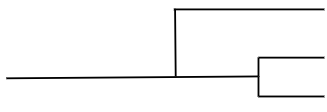
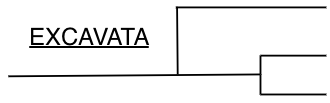
titles added to clados

Changed region(s): [[0.0, 0.0583, 1.0, 0.932], [0.0612, 0.2621, 0.4587, 0.466]]

diff --git a/app/assets/stylesheets/unikonta.scss b/app/assets/stylesheets/unikonta.scss
@@ -6,48 +6,48 @@
 
 .amoebozoans {
   position: relative;
-  top: -350px;
-  left: 500px;
+  top: -382px;
+  left: 505px;
 }
 
 .choanoflagellates {
   position: relative;
-  top: -270px;
-  left: 500px;
+  top: -350px;
+  left: 505px;
 }
 
 .animals {
   position: relative;
-  top: -245px;
-  left: 500px;
+  top: -325px;
+  left: 505px;
 }
 
 .chytrids {
   position: relative;
-  top: -220px;
-  left: 500px;
+  top: -300px;
+  left: 505px;
 }
 
 .zygomycetes {
   position: relative;
-  top: -190px;
-  left: 500px;
+  top: -120px;
+  left: 505px;
 }
 
 .glomeromycetes {
   position: relative;
-  top: -165px;
-  left: 500px;
+  top: -100px;
+  left: 505px;
 }
 
 .basidiomycetes {
   position: relative;
-  top: -150px;
-  left: 500px;
+  top: -85px;
+  left: 505px;
 }
 
 .ascomycetes {
   position: relative;
-  top: -140px;
-  left: 500px;
+  top: -75px;
+  left: 505px;
 }

diff --git a/app/assets/stylesheets/bacteria.scss b/app/assets/stylesheets/bacteria.scss
@@ -6,30 +6,30 @@
 
 .proteobacteria {
   position: relative;
-  top: -247px;
-  left: 450px;
+  top: -245px;
+  left: 455px;
 }
 
 .chlamydias {
   position: relative;
-  top: -210px;
-  left: 450px;
+  top: -208px;
+  left: 455px;
 }
 
 .spirochaetes {
   position: relative;
-  top: -187px;
-  left: 450px;
+  top: -185px;
+  left: 455px;
 }
 
 .cyanobacteria {
   position: relative;
-  top: -125px;
-  left: 450px;
+  top: -123px;
+  left: 455px;
 }
 
 .gram-positive {
   position: relative;
-  top: -95px;
-  left: 450px;
+  top: -93px;
+  left: 455px;
 }

diff --git a/app/assets/stylesheets/sar.scss b/app/assets/stylesheets/sar.scss
@@ -1,24 +1,24 @@
 .sar-clado {
   position: relative;
-  top: 27px;
+  top: 30px;
   left: 9px;
 }
 
 .ciliates {
   position: relative;
-  top: -275px;
+  top: -278px;
   left: 500px;
 }
 
 .dinoflagellates {
   position: relative;
-  top: -243px;
+  top: -245px;
   left: 500px;
 }
 
 .apicomplexans {
   position: relative;
-  top: -223px;
+  top: -225px;
   left: 500px;
 }
 

diff --git a/app/assets/stylesheets/excavata.scss b/app/assets/stylesheets/excavata.scss
@@ -6,18 +6,18 @@
 
 .euglenids {
   position: relative;
-  top: -115px;
+  top: -110px;
   left: 310px;
 }
 
 .parabasalids {
   position: relative;
-  top: -80px;
+  top: -78px;
   left: 310px;
 }
 
 .diplomonads {
   position: relative;
-  top: -60px;
+  top: -58px;
   left: 310px;
 }
